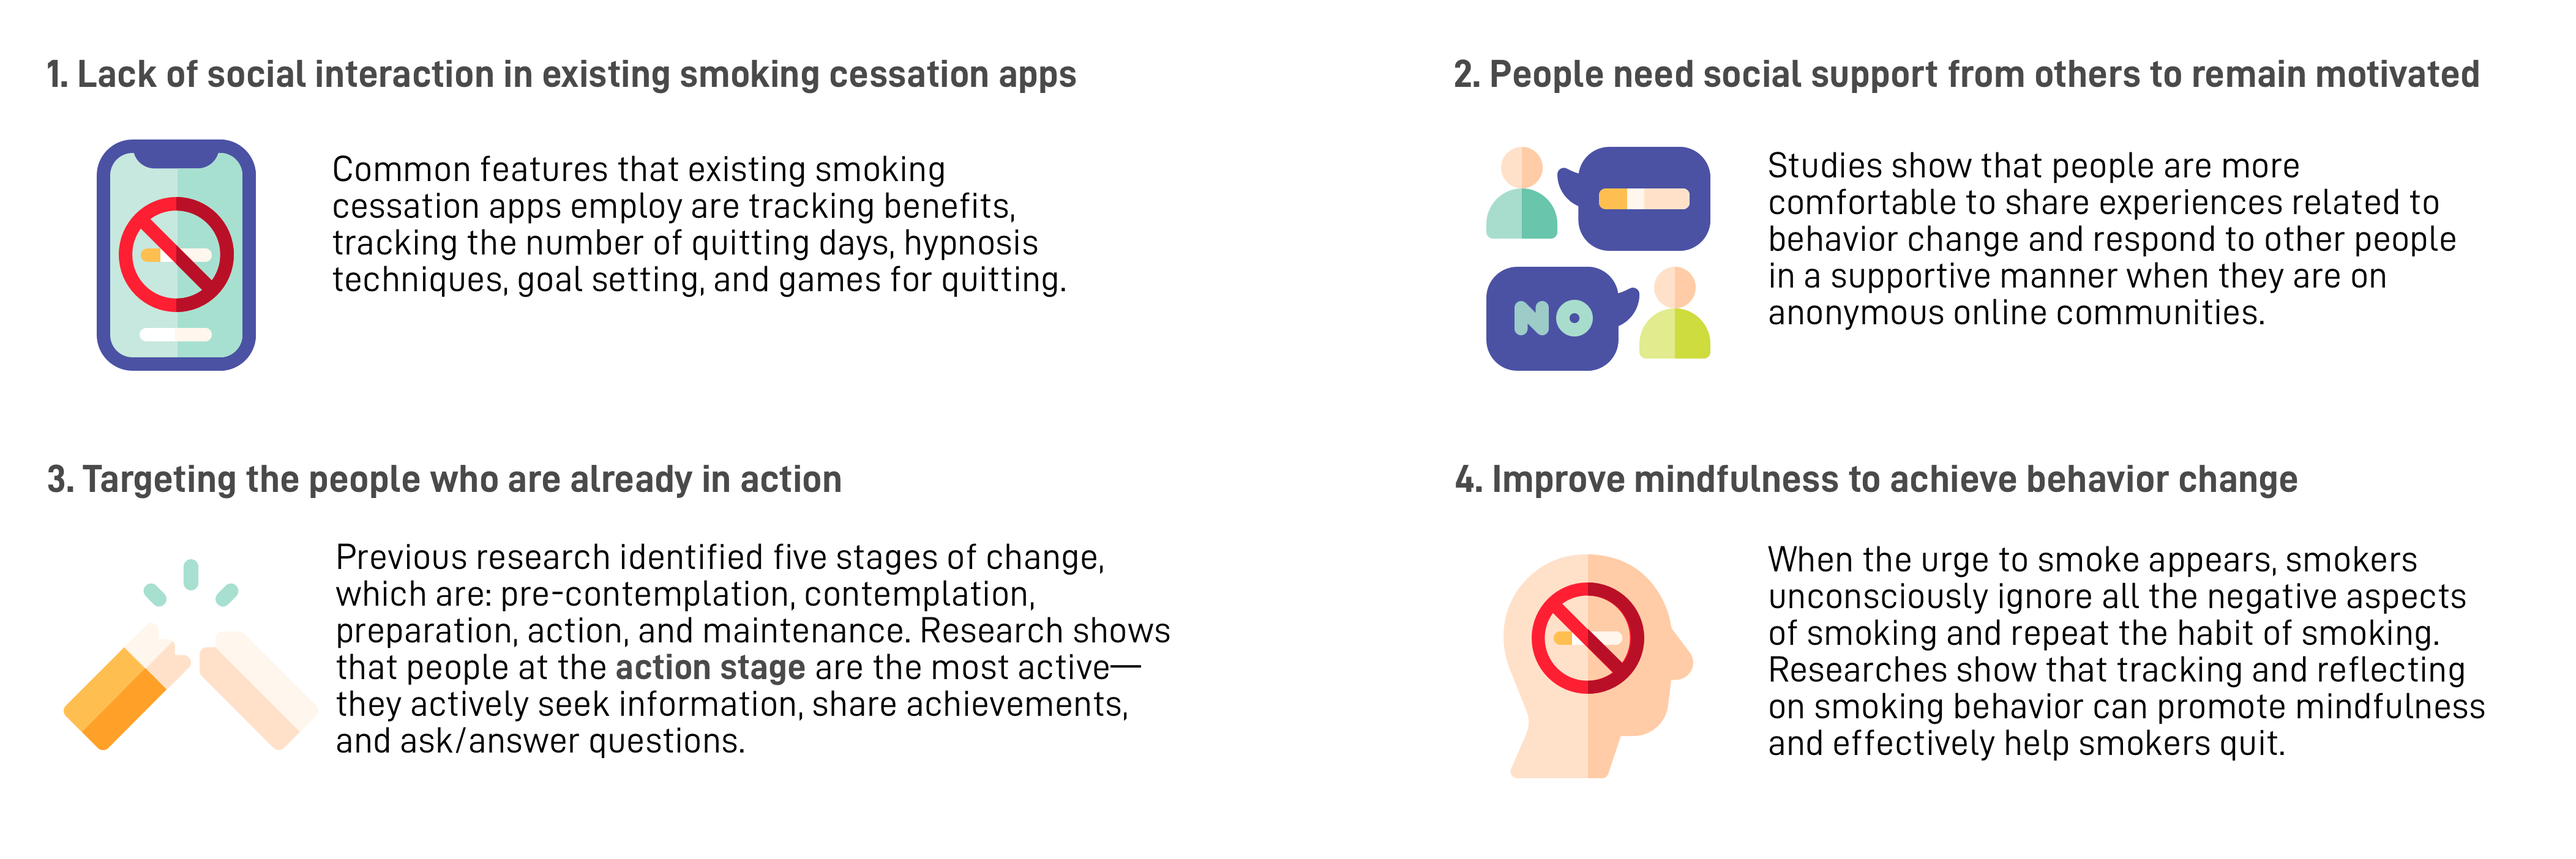
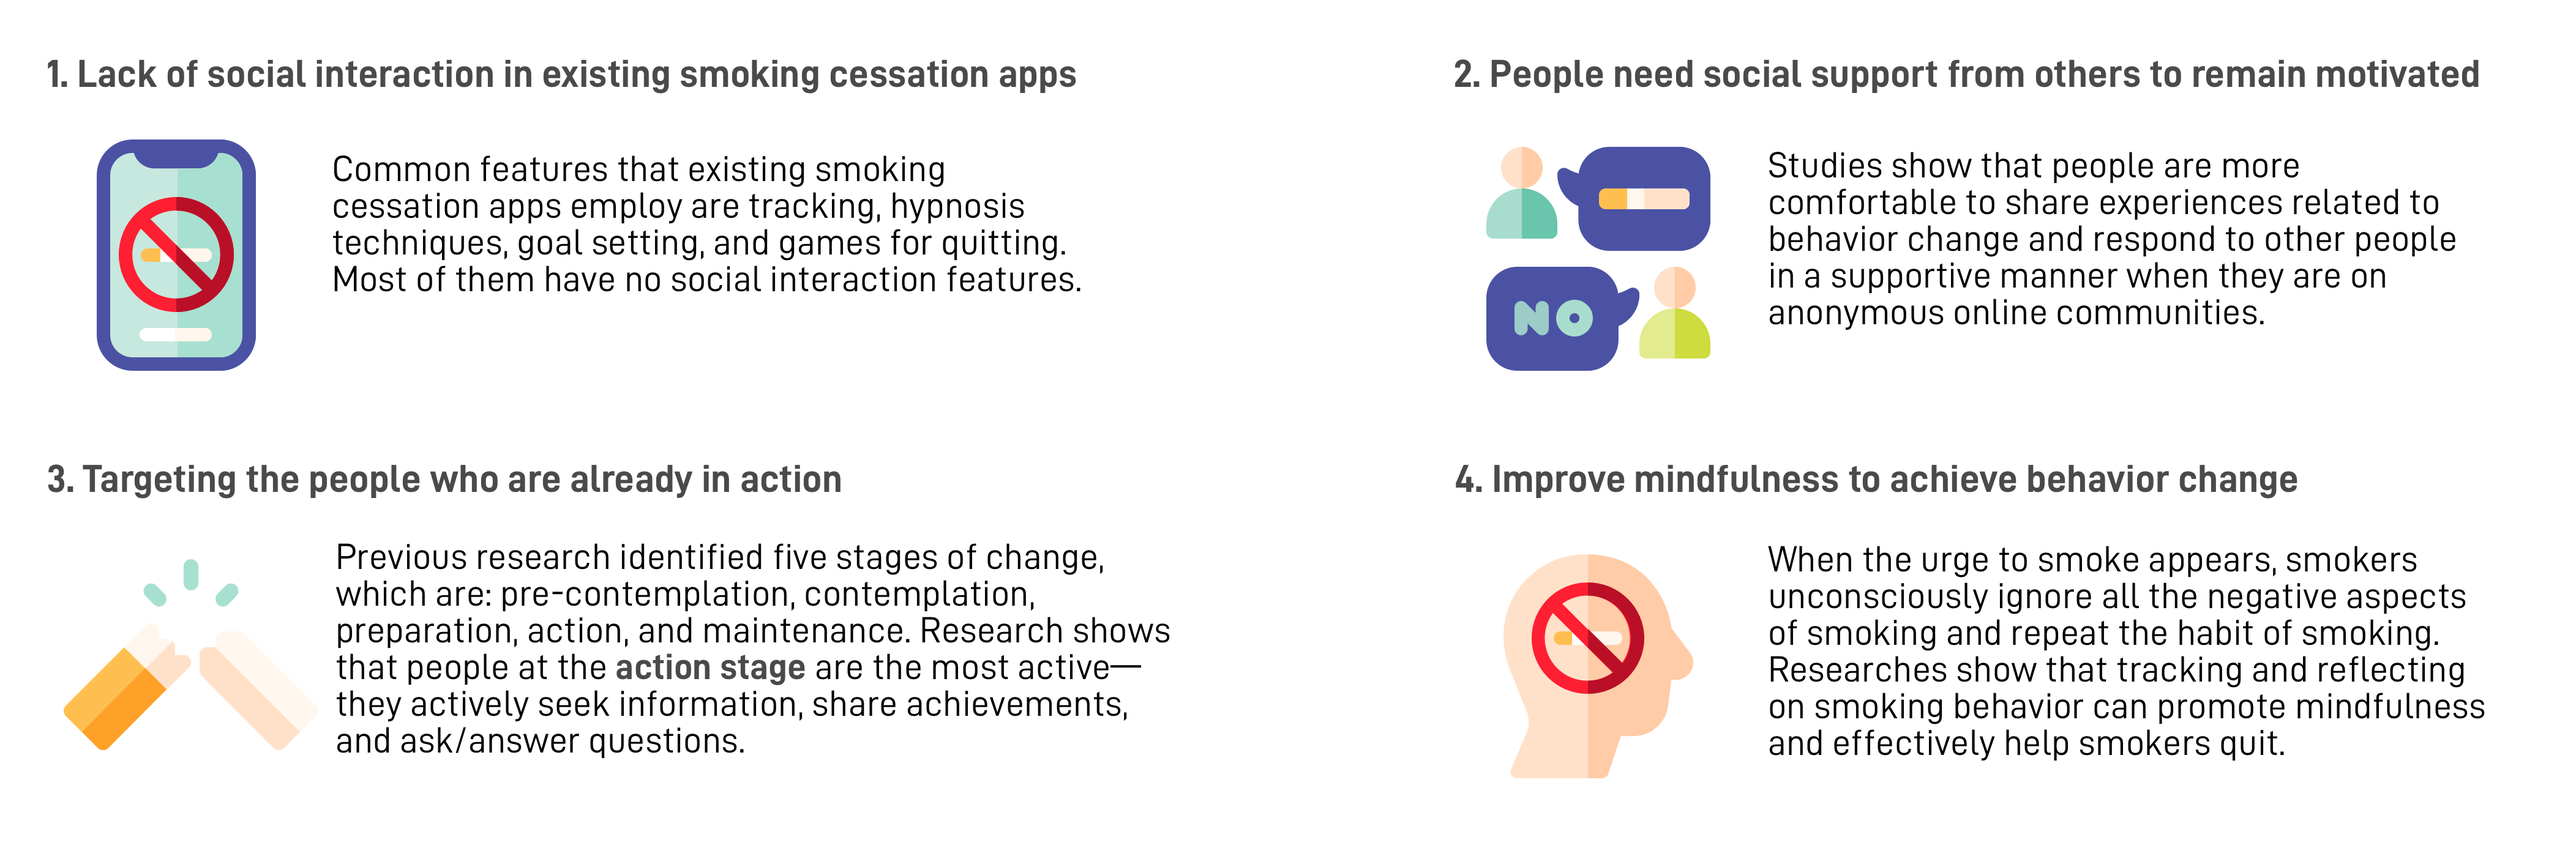
smoking edits

Changed region(s): [[0.1245, 0.2144, 0.4358, 0.3369]]

diff --git a/smoking.html b/smoking.html
@@ -100,9 +100,10 @@
                                         <h3 class="owner-text">Project information</h3>
                                         <ul>
                                             <li><i class="fa fa-info-circle"></i><span> Type :</span>Course Project for Health Informatics Class @HCIM</li>
-                                            <li><i class="fa fa-user"></i><span> Team Member :</span>I-Jui Chi, Peiyi Liu, Shangcao Yuan</li>
-                                            <li><i class="fa fa-university"></i><span>Professor :</span>Eun Kyoung Choe </li>
+                                            <li><i class="fa fa-user"></i><span> Team Member :</span>Xiaoyu Sun, I-Jui Chi, Peiyi Liu, Shangcao Yuan</li>
                                             <li><i class="fa fa-pencil-square-o"></i><span>My Role :</span> Literature Review, User Research, Prototyping，Video Editing</li>
+                                            <li><i class="fa fa-university"></i><span>Professor :</span>Eun Kyoung Choe </li>
+                                            
                                             <li><i class="fa fa-calendar"></i><span>Date :</span>Sep 2018 - Dec 2018 </li>
                                         </ul><br>
                                        
@@ -110,7 +111,7 @@
                                     </div>
                                      <div class="single-project-description">
                                         <h3 class="owner-text">Background Study</h3><br>
-                                        <p> To understand the background knowledge of smoking behaviors and the existing solutions of smoking cessation, our team went through a bunch of papers, articles, and social platforms to dive deeper into the subject matter. We found four significant insights from these sources and used them as the guidelines for our design.</p>
+                                        <p> To understand the background knowledge of smoking behaviors and the existing solutions of smoking cessation, our team used primary literatures as our sources of understanding this subject matter. We found four significant insights from these sources and used them as the guidelines for our design.</p>
 
                                     <div class="pimages"><img src="img/smoking/findings.png" width="100%" ></div>
                                     </div><br><br>
@@ -124,7 +125,7 @@
                                     <div class="single-project-description">
                                         <h3 class="owner-text">Diary Study</h3><br>
                                         <p>Our team designed a diary study research to learn more about the context of their smoking behavior. This study also served the purpose of understanding the effectiveness of self-reflection on the participant’s perception of their behavior.</p>
-                                        <p>Participants were asked to track when and where they smoked, how many cigarettes they smoked, and why they smoked. At the end of the seven-day study, we interviewed each participant to learn in-depth motivations for smoking behaviors, smoking behavior patterns, and how the seven-day diary study influences their smoking behaviors.</p>
+                                        <p>Participants were asked to track when and where they smoked, how many cigarettes they smoked, and why they smoked. At the end of the seven-day study, we interviewed each participant to learn in-depth motivations for smoking behaviors, smoking behavior patterns, and how the seven-day diary study influenced their smoking behaviors.</p>
                                         <p>Below is an example of our diary study notes and the major findings in the diary study.</p>
                                         <div class="pimages"><img src="img/smoking/diary.png" width="100%" ></div>
                                         <br>
@@ -134,7 +135,7 @@
                                         <h3 class="owner-text">Paper Prototyping + User Testing</h3><br>
                                         <p>Based on the findings from the user research and diary study, we came up with the initial design. The product is called Quitogether. It will help people reflect on their smoking behavior by tracking and visualizing data regarding smoking and smoking urges. People will offer and receive social support from group members and from other people who are using Quitogether. We also created a low fidelity paper prototype for user testing.</p>
                                         <div class="pimages"><img src="img/smoking/testing.png" width="100%" ></div>
-                                        <p>We conducted user testing with three participants who were current smokers with more than a 12-month smoking experience. After the user testing, we collected some interesting findings that inspired our final design a lot:  </p>
+                                        <p>We conducted user testing with three participants who were current smokers with more than a 12-month smoking experience. After the user testing, we discovered some interesting findings that inspired our final design:  </p>
                                         <p><strong>- Finding 1: Never mention "smoking" in the help request message </strong></p>
                                         <p>Although it is helpful to get peer support, our participants said that keeping showing words about "smoking" in front of group members might increase their urge to smoke. As a consequence, in our final design, we used a metaphor to achieve this "secret handshake."</p>
                                         <p>In the final design, we describe the urge to smoke as a "monster." So whenever a monster is attacking the user, he or she can send out a help message to other group members to ask their help to defeat the "monster." In this way, we can help users to overcome the urge in a playful way without influencing other teammates. We also want to provide users with more options to customize this help message.</p>
@@ -170,12 +171,13 @@
                                      <div class="single-project-description">
                                         <h3 class="owner-text">Reflection</h3><br>
                                  
-                                        <p>When it comes to product design in the personal health domain, all design solutions should be <span class="text-highlighted"> based on professional research results </span>to ensure their effectiveness. In this project, we spent a vast amount of time reading papers and articles about smoking cessation. Those findings in our background study part served as the "North Star" in our following design process. Moreover, those previous research findings also provided us with a solid theoretical basis for our design.</p>
-                                        <p>In the future, we could improve our product in the following way: <br/>
-                                        - Add more customizable options for the help message<br/>
-                                        - Provide more ways of data visualization for users to help them dive deep into their data<br/>
-                                        - Give users more rewards like badges or bonuses in real-life to promote them to engage better in the community<br/>
-                                        - Ask experts to join the community to offer professional advice to make this app more reliable
+                                
+                                        <p>In order to design an effective health-tracking app, all aspects of the design must be corroborated by clinical studies and primary literature. We utilized this strategy to translate the insights that we gained from such theoretical knowledge into functional features of a potential new product in the healthcare domain.</p>
+                                        <p>In the future, our design can be further improved by the following: <br/>
+                                        - Allow users to customize existing features such as the help message<br/>
+                                        - Provide advanced ways of data visualization to help users dive deep into their data<br/>
+                                        - Offer users action-based incentives like reward badges to award positive reinforcement <br/>
+                                        - Connect users to healthcare experts to receive professional advice 
                                         </p>
                                         
                                         <br><br>
